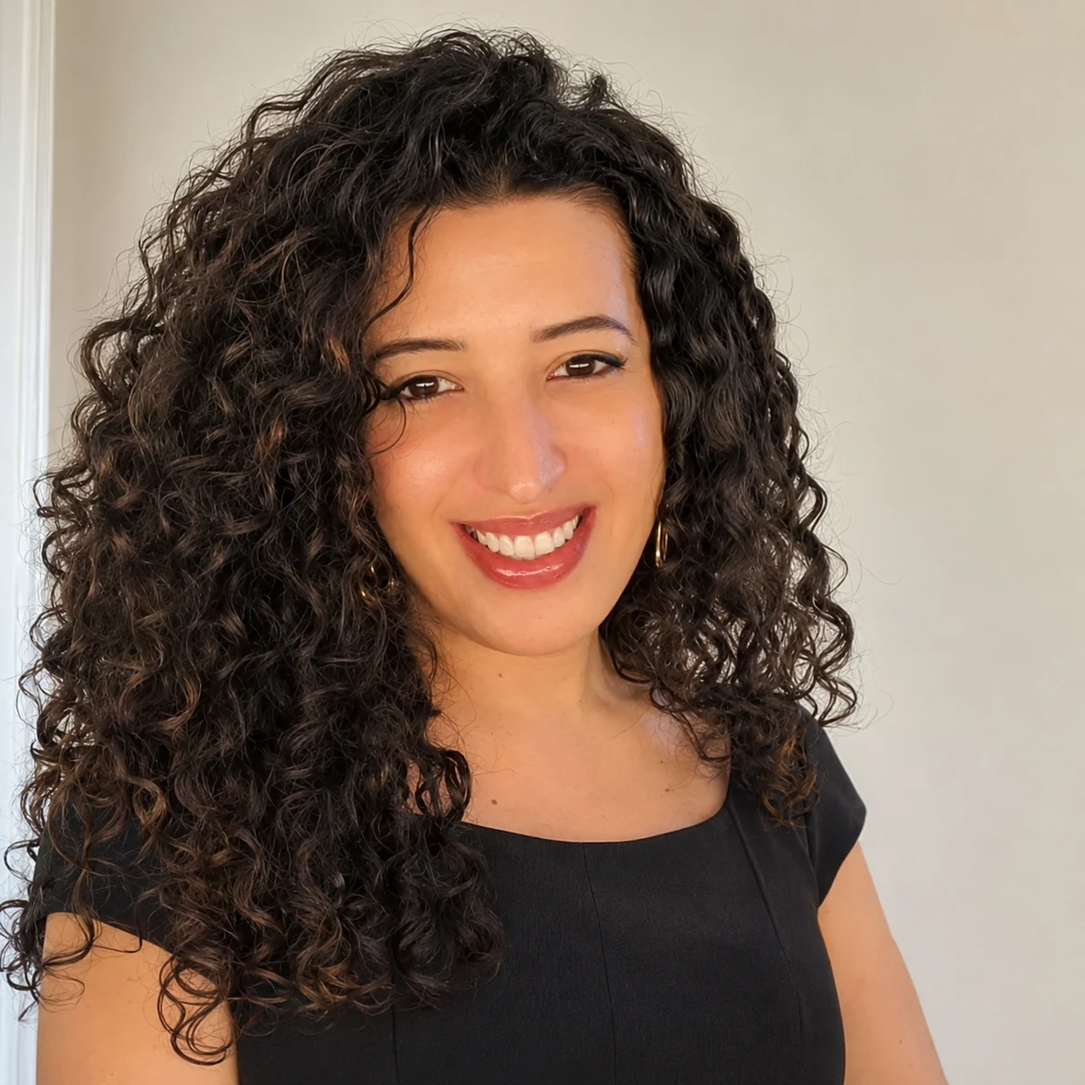
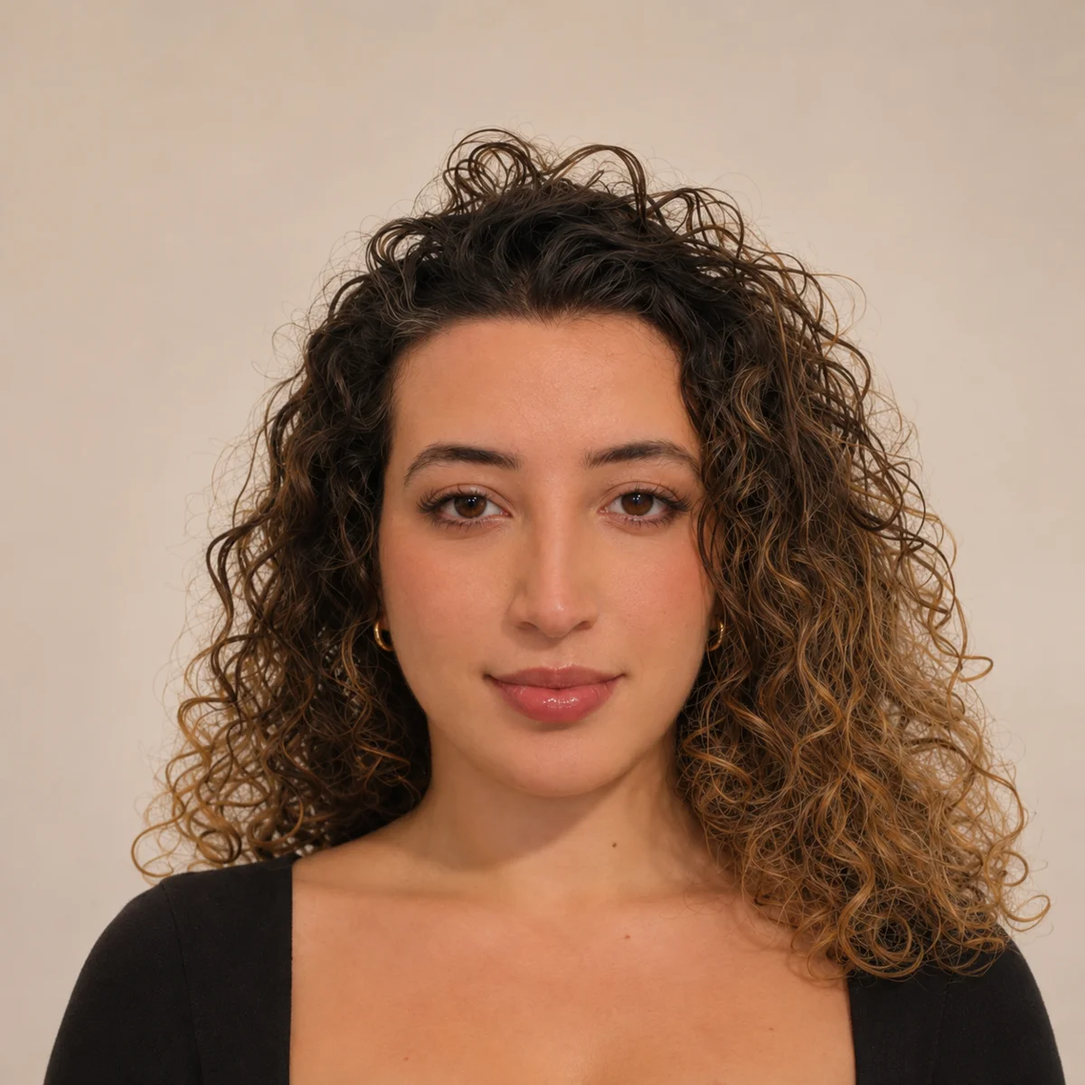
Put the free guide forward on the home page with an email opt-in
New portrait, Abidjan section removed, menu labels clarified, and a
/guide-offert page that opens after signup with explicit consent.

Claude-Session: https://claude.ai/code/session_011Z5ogAhdb68B5BdiCrjQuG

diff --git a/previews/melnourdi-v1/guide.html b/previews/melnourdi-v1/guide.html
@@ -1,0 +1,152 @@
+<!doctype html>
+<html lang="fr">
+<head>
+  <meta charset="utf-8">
+  <meta name="viewport" content="width=device-width, initial-scale=1">
+  <meta name="theme-color" content="#F9F7F2">
+  <meta name="description" content="Le guide offert de Mel Nourdi : 7 choses à savoir avant de vendre ton offre sur les réseaux.">
+  <title>7 choses à savoir avant de vendre ton offre sur les réseaux — melnourdi.</title>
+  <link rel="stylesheet" href="styles.css">
+  <link rel="stylesheet" href="lead.css">
+  <script src="lead.js" defer></script>
+</head>
+<body>
+  <svg class="icon-library" xmlns="http://www.w3.org/2000/svg" aria-hidden="true">
+    <symbol id="arrow" viewBox="0 0 24 24"><path d="M5 12h14m-6-6 6 6-6 6"/></symbol>
+    <symbol id="mail" viewBox="0 0 24 24"><rect x="3" y="5" width="18" height="14" rx="2"/><path d="m3 7 9 6 9-6"/></symbol>
+  </svg>
+  <a class="skip-link" href="#contenu">Aller au contenu</a>
+  <header class="site-header wrap">
+    <a class="wordmark" href="/" aria-label="Melnourdi, accueil">melnourdi<span>.</span></a>
+    <nav aria-label="Navigation principale">
+      <a href="/#formations">Formations</a><a href="/logiciel-reservation">Logiciel de réservation</a><a href="/#gratuit">Guide offert</a>
+    </nav>
+  </header>
+
+  <main id="contenu" class="wrap">
+    <section class="guide-gate" data-guide-gate>
+      <div class="free-section lead-section">
+        <span class="text-tag">Le guide offert</span>
+        <h1>7 choses à savoir avant de vendre ton offre sur les réseaux</h1>
+        <p>Laisse ton email et le guide s’ouvre tout de suite. Tu recevras aussi ma newsletter, une fois par semaine.</p>
+        <form class="lead-form" data-lead-form novalidate>
+          <label class="lead-label" for="gate-email">Ton adresse email</label>
+          <div class="lead-row"><input id="gate-email" name="email" type="email" autocomplete="email" placeholder="ton@email.fr" required maxlength="254"><button class="button button-dark" type="submit">Recevoir le guide<svg class="end-icon"><use href="#arrow"/></svg></button></div>
+          <label class="lead-consent"><input type="checkbox" name="consentement" required><span>J’accepte de recevoir le guide et la newsletter de Mel par email. Désinscription en un clic à tout moment. <a href="/confidentialite">Confidentialité</a></span></label>
+          <p class="lead-feedback" role="status" aria-live="polite" hidden></p>
+        </form>
+      </div>
+    </section>
+
+    <article class="guide-page" data-guide hidden>
+      <span class="tag"><span class="tag-dot"></span>Le guide offert de Mel</span>
+      <h1>7 choses à savoir avant de vendre ton offre sur les réseaux</h1>
+      <p class="guide-lead">Tu as une offre, un savoir-faire ou un service, et tu veux que les réseaux t’amènent des clients, pas seulement des vues. Ce guide est pour toi, que tu sois déjà à ton compte ou en train de te lancer.</p>
+      <p>Tu y trouveras 7 choses à savoir avant de publier ta prochaine vidéo. Chaque point se termine par <strong>une action à faire aujourd’hui</strong>. Aucun point ne demande de budget publicitaire.</p>
+
+      <h2><span>1</span>Ton offre doit tenir en une phrase</h2>
+      <p>Si tu ne peux pas dire en une phrase ce que tu vends, personne ne pourra le répéter, ni l’algorithme, ni tes clients. Sur les réseaux, on te découvre en quelques secondes, souvent sans connaître ton profil.</p>
+      <p>Une phrase claire répond à trois questions :</p>
+      <ul>
+        <li><strong>Pour qui ?</strong> Un métier ou une situation précise, pas « tout le monde ».</li>
+        <li><strong>Quel résultat ?</strong> Ce que la personne obtient concrètement.</li>
+        <li><strong>Malgré quel obstacle ?</strong> Ce qui l’empêche d’y arriver seule aujourd’hui.</li>
+      </ul>
+      <p>Exemple : « J’aide les coiffeuses indépendantes à remplir leur agenda, même sans budget publicitaire. »</p>
+      <p>Cette phrase devient ta bio, l’accroche de tes vidéos et le titre de ta page de vente. Si elle change d’une vidéo à l’autre, ton audience ne sait plus pourquoi te suivre.</p>
+      <p class="guide-action"><strong>À faire aujourd’hui :</strong> écris ta phrase, puis lis-la à une personne de ta cible. Si elle ne peut pas la répéter avec ses mots, simplifie.</p>
+
+      <h2><span>2</span>Le début de ta vidéo décide de tout le reste</h2>
+      <p>Le temps de visionnage fait partie des trois signaux qui comptent le plus sur Instagram, avec les likes et les partages, selon son patron, Adam Mosseri (<a href="https://www.socialmediatoday.com/news/instagram-shares-algorithm-2025/738034/" rel="noopener">Social Media Today, janvier 2025</a>). Si on décroche au début, la suite n’a aucune chance d’être vue.</p>
+      <p>Une bonne ouverture fait une seule chose : montrer tout de suite à la bonne personne que la vidéo parle d’elle.</p>
+      <ul>
+        <li><strong>Nomme le problème</strong> : « Tu passes tes soirées à répondre aux messages de réservation ? »</li>
+        <li><strong>Montre le résultat d’abord</strong> : l’outil terminé, puis comment tu l’as fait.</li>
+        <li><strong>Contredis une idée reçue</strong> de ton métier, à condition de pouvoir l’expliquer ensuite.</li>
+      </ul>
+      <p>À éviter : les longues introductions (« Salut tout le monde, aujourd’hui… ») et les promesses que la vidéo ne tient pas. Une accroche trompeuse fait partir les gens avant la fin, ce qui fait baisser ce temps de visionnage.</p>
+      <p class="guide-action"><strong>À faire aujourd’hui :</strong> écris trois ouvertures différentes pour ta prochaine vidéo, une par type ci-dessus. Garde celle que tu dirais à une amie.</p>
+
+      <h2><span>3</span>Les réseaux sont devenus des moteurs de recherche</h2>
+      <p>Tes futurs clients ne t’attendent pas dans leur fil : ils tapent leur problème dans la barre de recherche de TikTok ou d’Instagram. Les plateformes l’ont compris et donnent de plus en plus d’outils aux créateurs pour être trouvés.</p>
+      <ul>
+        <li><strong>Sur TikTok</strong>, l’outil Creator Search Insights, accessible depuis la barre de recherche, montre les sujets que les gens cherchent. Depuis avril 2026, un réglage « gestion des mots-clés » permet aussi de choisir les recherches pour lesquelles ta vidéo doit sortir, et d’en retirer d’autres (<a href="https://uppbeat.io/blog/creator-news/tiktok-now-lets-you-control-the-search-keywords-on-your-videos" rel="noopener">Uppbeat, avril 2026</a>).</li>
+        <li><strong>Sur Instagram</strong>, depuis fin avril 2026, un compte qui publie surtout le contenu des autres n’est plus recommandé aux non-abonnés, que ce soit en Reels, en photos ou en carrousels (<a href="https://petapixel.com/2026/04/30/new-instagram-policies-target-reposted-content/" rel="noopener">PetaPixel, avril 2026</a>). Le contenu original est donc indispensable pour être découverte.</li>
+      </ul>
+      <p>Concrètement : dis à voix haute les mots que ta cible cherche, écris-les dans le texte à l’écran et dans la légende. « Logiciel de réservation coiffure » sera trouvé, « Ma nouvelle aventure » ne le sera pas.</p>
+      <p class="guide-action"><strong>À faire aujourd’hui :</strong> tape le problème principal de ta cible dans la recherche TikTok. Note les suggestions qui s’affichent : ce sont tes cinq prochains sujets de vidéo.</p>
+
+      <h2><span>4</span>Chaque contenu a un rôle : attirer, rassurer ou vendre</h2>
+      <p>Une vidéo ne peut pas tout faire à la fois. Celle qui attire des inconnus n’est pas celle qui décide quelqu’un à payer. Avant de publier, choisis le rôle de la vidéo :</p>
+      <div class="guide-table-wrap"><table class="guide-table">
+        <thead><tr><th>Rôle</th><th>Pour qui</th><th>Exemples</th><th>Ce que tu demandes à la fin</th></tr></thead>
+        <tbody>
+          <tr><td><strong>Attirer</strong></td><td>Des gens qui ne te connaissent pas</td><td>Une erreur fréquente du métier, une astuce rapide, une idée reçue démontée</td><td>Envoyer la vidéo à quelqu’un, s’abonner</td></tr>
+          <tr><td><strong>Rassurer</strong></td><td>Ceux qui te suivent déjà</td><td>Coulisses, avant/après, ton parcours, réponses aux questions</td><td>Télécharger ton cadeau, s’inscrire à ta newsletter</td></tr>
+          <tr><td><strong>Vendre</strong></td><td>Ceux qui ont déjà le problème et te font confiance</td><td>Présentation de l’offre, démo, réponses aux objections</td><td>Un seul lien, une seule action</td></tr>
+        </tbody>
+      </table></div>
+      <p>Une vidéo de vente envoyée à des inconnus fait fuir. Une vidéo qui attire sans jamais proposer la suite ne rapporte rien. Il faut les trois, à un rythme que tu peux tenir.</p>
+      <p class="guide-action"><strong>À faire aujourd’hui :</strong> reprends tes 9 dernières publications et note pour chacune son rôle. S’il en manque un, c’est ta prochaine vidéo.</p>
+
+      <h2><span>5</span>Un partage en message privé vaut plus qu’un like</h2>
+      <p>Pour toucher des gens qui ne te suivent pas encore, Instagram regarde surtout combien de personnes envoient ta publication à quelqu’un en message privé. Les likes comptent un peu plus auprès de tes abonnés, les envois un peu plus auprès des inconnus. C’est ce qu’explique Adam Mosseri, qui conseille de suivre les envois rapportés à la portée (<a href="https://www.socialmediatoday.com/news/instagram-shares-algorithm-2025/738034/" rel="noopener">Social Media Today, janvier 2025</a>).</p>
+      <p>On envoie une vidéo quand elle fait penser à quelqu’un : « c’est exactement toi », « ça va t’aider ». Quelques formats qui s’y prêtent :</p>
+      <ul>
+        <li>une checklist à garder ou à transmettre ;</li>
+        <li>une situation du métier que tout le monde reconnaît ;</li>
+        <li>une réponse claire à une question que ta cible se pose souvent.</li>
+      </ul>
+      <p>Tu peux aussi le demander simplement : « Envoie-la à une amie qui vient de se lancer. »</p>
+      <p class="guide-action"><strong>À faire aujourd’hui :</strong> dans tes statistiques Instagram, repère la publication la plus partagée. Refais le même sujet sous un autre angle cette semaine.</p>
+
+      <h2><span>6</span>Raccourcis le chemin entre ta vidéo et ton offre</h2>
+      <p>Chaque étape en plus entre ta vidéo et ton offre fait perdre des gens. « Va sur mon profil, clique sur le lien, puis sur l’onglet, puis cherche la bonne page » : la plupart abandonnent en route.</p>
+      <ul>
+        <li><strong>Une seule action par vidéo.</strong> Toujours la même formulation, pour que ton audience la reconnaisse.</li>
+        <li><strong>Le mot-clé en commentaire.</strong> « Commente GUIDE et je t’envoie le lien en privé. » Sur Instagram, un compte professionnel peut envoyer automatiquement un message privé à la personne qui commente. Cela passe par un outil connecté à l’interface officielle de Meta : un seul message par commentaire, envoyé dans les 7 jours, et la suite seulement si la personne répond (<a href="https://developers.facebook.com/docs/instagram-platform/private-replies/" rel="noopener">documentation Meta</a>). Tu ouvres ainsi une vraie conversation, et c’est souvent là que la vente se fait.</li>
+        <li><strong>Un lien qui tient la promesse de la vidéo.</strong> Si ta vidéo parle de réservations, le lien mène à la page de ton offre de réservation, pas à ta page d’accueil.</li>
+      </ul>
+      <p class="guide-action"><strong>À faire aujourd’hui :</strong> depuis le téléphone d’une amie, pars de ta dernière vidéo et essaie d’acheter ou de réserver. Compte les clics, puis supprime au moins une étape.</p>
+
+      <h2><span>7</span>Ton audience ne t’appartient pas, ta liste email si</h2>
+      <p>Tes abonnés sont chez TikTok, Instagram ou YouTube, pas chez toi. Une seule décision de la plateforme peut changer ta portée du jour au lendemain. En avril 2026, Instagram a ainsi cessé de recommander aux non-abonnés les comptes qui republient surtout le contenu des autres (<a href="https://petapixel.com/2026/04/30/new-instagram-policies-target-reposted-content/" rel="noopener">PetaPixel</a>).</p>
+      <p>Une adresse email, elle, reste à toi. Quand tu lances une offre, tu écris directement à des personnes qui ont choisi de te lire, sans dépendre d’un algorithme.</p>
+      <p>Pour faire grandir ta liste :</p>
+      <ul>
+        <li>propose quelque chose d’utile en échange de l’email seulement, sans demander de prénom ni de téléphone ;</li>
+        <li>mets le lien dans ta bio et parles-en régulièrement dans tes vidéos « Rassurer » ;</li>
+        <li>écris à ta liste chaque semaine, le même jour, pour qu’on prenne l’habitude de te lire.</li>
+      </ul>
+      <p>Côté règles, en France, il faut le consentement préalable des particuliers avant de leur envoyer de la prospection par email. La CNIL recommande une case à cocher dédiée, jamais pré-cochée. Chaque email doit indiquer qui l’envoie et permettre de se désinscrire simplement (<a href="https://www.cnil.fr/fr/la-prospection-commerciale-par-courrier-electronique-sms-mms-et-automate-dappel" rel="noopener">CNIL, juin 2026</a>).</p>
+      <p class="guide-action"><strong>À faire aujourd’hui :</strong> choisis l’outil d’emailing que tu vas utiliser et le jour d’envoi de ta newsletter.</p>
+
+      <h2>Ton plan pour cette semaine</h2>
+      <ol>
+        <li>Écrire ta phrase d’offre et la mettre dans ta bio.</li>
+        <li>Trouver cinq sujets dans la recherche TikTok.</li>
+        <li>Préparer une vidéo pour attirer, une pour rassurer et une pour vendre.</li>
+        <li>Écrire trois ouvertures pour chacune.</li>
+        <li>Tester le chemin de ta dernière vidéo jusqu’à ton offre.</li>
+        <li>Mettre le lien de ta newsletter dans ta bio.</li>
+      </ol>
+      <p>Chaque semaine, je partage dans ma newsletter ce que je teste pour vendre avec les réseaux et l’IA. Réponds à l’un de mes emails pour me dire quel point tu appliques en premier.</p>
+      <p><strong>Mel.</strong></p>
+      <p><a class="button button-lime" href="/logiciel-reservation">Découvrir mon logiciel de réservation<svg class="end-icon"><use href="#arrow"/></svg></a></p>
+
+      <h2>Sources</h2>
+      <p>Vérifiées le 20 novembre 2026.</p>
+      <ul class="guide-sources">
+        <li><a href="https://www.cnil.fr/fr/la-prospection-commerciale-par-courrier-electronique-sms-mms-et-automate-dappel" rel="noopener">La prospection commerciale par courrier électronique</a>, CNIL, 10 juin 2026</li>
+        <li><a href="https://developers.facebook.com/docs/instagram-platform/private-replies/" rel="noopener">Private Replies</a>, documentation Meta pour les développeurs</li>
+        <li><a href="https://www.socialmediatoday.com/news/instagram-shares-algorithm-2025/738034/" rel="noopener">Instagram shares algorithm insights</a>, Social Media Today, 22 janvier 2025</li>
+        <li><a href="https://petapixel.com/2026/04/30/new-instagram-policies-target-reposted-content/" rel="noopener">New Instagram policies target reposted content</a>, PetaPixel, 30 avril 2026</li>
+        <li><a href="https://uppbeat.io/blog/creator-news/tiktok-now-lets-you-control-the-search-keywords-on-your-videos" rel="noopener">TikTok now lets you control the search keywords on your videos</a>, Uppbeat, 29 avril 2026</li>
+      </ul>
+    </article>
+    <noscript><p class="noscript-note">Active JavaScript pour recevoir le guide, ou écris à <a href="mailto:contact@melnourdi.fr">contact@melnourdi.fr</a>.</p></noscript>
+  </main>
+
+  <footer class="site-footer"><div class="wrap footer-bottom"><span>© 2026 Mel Nourdi</span><div><a href="/mentions-legales">Mentions légales</a><a href="/confidentialite">Confidentialité</a></div></div></footer>
+</body>
+</html>

diff --git a/previews/melnourdi-v1/index.html b/previews/melnourdi-v1/index.html
@@ -8,6 +8,8 @@
   <meta name="description" content="Aperçu de Melnourdi : formations pratiques, outils sur mesure et journal de bord d’entrepreneuse.">
   <title>melnourdi. — Apprendre à créer, ou me confier ton projet</title>
   <link rel="stylesheet" href="styles.css">
+  <link rel="stylesheet" href="lead.css">
+  <script src="lead.js" defer></script>
   <script src="app.js" defer></script>
 </head>
 <body>
@@ -29,7 +31,7 @@
   <header class="site-header wrap">
     <a class="wordmark" href="#" aria-label="Melnourdi, accueil">melnourdi<span>.</span></a>
     <nav aria-label="Navigation principale">
-      <a href="#formations">Formations</a><a href="/logiciel-reservation">Réservation beauté</a><a href="#sur-mesure">Sur mesure</a><a href="#gratuit">Gratuit</a>
+      <a href="#formations">Formations</a><a href="/logiciel-reservation">Logiciel de réservation</a><a href="#sur-mesure">Sur mesure</a><a href="#gratuit">Guide offert</a>
     </nav>
     <button class="account-button" data-dialog="account"><svg><use href="#user"/></svg><span>Mon espace</span></button>
   </header>
@@ -45,6 +47,7 @@
           <a class="button button-lime" href="#formations"><svg><use href="#laptop"/></svg>Je veux apprendre<svg class="end-icon"><use href="#arrow"/></svg></a>
           <a class="button button-outline" href="#sur-mesure"><svg><use href="#tool"/></svg>Je préfère déléguer<svg class="end-icon"><use href="#arrow"/></svg></a>
         </div>
+        <a class="hero-guide" href="#gratuit"><span class="hero-guide-badge">Guide offert</span><span>7 choses à savoir avant de vendre ton offre sur les réseaux</span><svg><use href="#arrow"/></svg></a>
       </div>
       <div class="portrait-space portrait-with-photo">
         <img class="hero-photo" src="assets/mel-nourdi-business.webp" alt="Portrait de Mel Nourdi" width="1200" height="1200" fetchpriority="high">
@@ -52,10 +55,15 @@
       </div>
     </section>
 
-    <section class="free-section wrap" id="gratuit" aria-labelledby="free-title">
+    <section class="free-section lead-section wrap" id="gratuit" aria-labelledby="free-title">
       <div class="free-icon" aria-hidden="true"><svg><use href="#mail"/></svg></div>
-      <div class="free-copy"><span class="text-tag">Les ressources gratuites</span><h2 id="free-title">7 choses à faire pour vendre ton offre</h2><p>En attendant, suis la préparation de ma première formation et reçois les nouvelles de son lancement.</p></div>
-      <a class="text-link" href="#liste-attente">Être au courant<svg><use href="#arrow"/></svg></a>
+      <div class="free-copy"><span class="text-tag">Le guide offert</span><h2 id="free-title">7 choses à savoir avant de vendre ton offre sur les réseaux</h2><p>L’accroche, la recherche, les partages, le message privé, ta liste email : les 7 points à régler avant ta prochaine vidéo, avec une action concrète pour chacun. Laisse ton email et le guide s’ouvre tout de suite.</p></div>
+      <form class="lead-form" data-lead-form novalidate>
+        <label class="lead-label" for="lead-email">Ton adresse email</label>
+        <div class="lead-row"><input id="lead-email" name="email" type="email" autocomplete="email" placeholder="ton@email.fr" required maxlength="254"><button class="button button-dark" type="submit">Recevoir le guide<svg class="end-icon"><use href="#arrow"/></svg></button></div>
+        <label class="lead-consent"><input type="checkbox" name="consentement" required><span>J’accepte de recevoir le guide et la newsletter de Mel par email. Désinscription en un clic à tout moment. <a href="/confidentialite">Confidentialité</a></span></label>
+        <p class="lead-feedback" role="status" aria-live="polite" hidden></p>
+      </form>
     </section>
 
     <section class="courses-section wrap section-space" id="formations" aria-labelledby="courses-title">
@@ -98,11 +106,6 @@
         <li><span class="step-number">02</span><div><h3>On définit le projet.</h3><p>Un échange, puis une proposition avec le périmètre, le budget et les délais.</p></div></li>
         <li><span class="step-number">03</span><div><h3>Je passe à la réalisation.</h3><p>Après validation, on avance vers un outil que tu pourras prendre en main.</p></div></li>
       </ol>
-    </section>
-
-    <section class="about-section wrap" id="a-propos" aria-labelledby="about-title">
-      <figure><img src="assets/mel-atelier.webp" alt="Mel participant à un atelier de pagne à Abidjan" loading="lazy" width="632" height="950"><figcaption>À l’atelier de pagne, Abidjan.</figcaption></figure>
-      <div class="about-copy"><span class="text-tag">Derrière melnourdi.</span><h2 id="about-title">Des projets, des essais.<br>Et ce que j’en retiens.</h2><p>J’entreprends depuis 2021. J’ai créé mon site, une automatisation et mon propre outil de gestion pour mon activité.</p><p>Ici, je partage ce que j’apprends en chemin. Les outils que je construis, les choix que je fais, et aussi les découvertes qui font partie de ma vie.</p><p class="about-signature">On en parle au fil des projets.<span>Mel.</span></p></div>
     </section>
 
     <section class="faq-section wrap section-space" aria-labelledby="faq-title">

diff --git a/previews/melnourdi-v1/lead.css b/previews/melnourdi-v1/lead.css
@@ -1,0 +1,40 @@
+/* Guide offert : mise en avant sur l'accueil et page du guide. */
+.hero-guide{display:inline-flex;align-items:center;gap:12px;margin-top:22px;padding:8px 14px 8px 8px;border:1px solid var(--line);border-radius:40px;background:var(--white);font-size:12px;font-weight:700;line-height:1.4;transition:border-color .18s}
+.hero-guide:hover{border-color:var(--ink)}
+.hero-guide-badge{background:var(--lime);border-radius:30px;padding:4px 10px;font-size:10px;white-space:nowrap}
+.hero-guide svg{width:16px;height:16px}
+.lead-section{flex-wrap:wrap;padding:32px}
+.lead-section .free-copy{flex:1 1 380px}
+.lead-section .free-copy h2{font-size:26px}
+.lead-form{flex:1 1 360px;display:flex;flex-direction:column;gap:10px}
+.lead-label{font-size:12px;font-weight:700}
+.lead-row{display:flex;gap:8px}
+.lead-row input{flex:1;border-color:var(--ink)}
+.lead-row .button{white-space:nowrap}
+.lead-consent{display:flex;gap:10px;align-items:flex-start;font-size:11px;line-height:1.6;cursor:pointer}
+.lead-consent input{width:18px;height:18px;min-height:0;padding:0;margin-top:2px;flex-shrink:0;accent-color:var(--ink)}
+.lead-consent a{text-decoration:underline;text-underline-offset:3px}
+.lead-feedback{font-size:13px;font-weight:650;padding:10px 12px;border:1px solid var(--ink);border-radius:6px;background:var(--white)}
+.lead-form button:disabled{opacity:.6;cursor:wait}
+@media(max-width:767px){.hero-guide{margin-top:16px;font-size:11px;align-items:flex-start}.lead-section{padding:22px 20px}.lead-section .free-copy h2{font-size:20px}.lead-form{flex-basis:100%}.lead-row{flex-direction:column}.lead-row .button{justify-content:space-between}}
+/* Page du guide */
+.guide-page{max-width:760px;margin-inline:auto;padding-block:40px 80px}
+.guide-page h1{font-size:clamp(32px,4.5vw,50px);margin-top:18px}
+.guide-lead{font-size:16px;line-height:1.85;color:var(--muted);margin-top:20px}
+.guide-page h2{font-size:clamp(24px,2.6vw,32px);margin-top:56px;padding-top:28px;border-top:1px solid var(--line)}
+.guide-page h2 span{display:inline-block;background:var(--lime);border-radius:6px;padding:0 10px;margin-right:10px}
+.guide-page p,.guide-page li{font-size:15px;line-height:1.85}
+.guide-page p{margin-top:16px}
+.guide-page ul,.guide-page ol{padding-left:22px;margin:16px 0 0}
+.guide-page li{margin-bottom:8px}
+.guide-page a{text-decoration:underline;text-underline-offset:3px}
+.guide-action{margin-top:22px!important;padding:16px 18px;background:var(--lime);border-radius:8px}
+.guide-table{width:100%;border-collapse:collapse;margin-top:20px;font-size:13px;line-height:1.6}
+.guide-table th,.guide-table td{border-bottom:1px solid var(--line);padding:10px 8px;text-align:left;vertical-align:top}
+.guide-table th{font-weight:750}
+.guide-table-wrap{overflow-x:auto}
+.guide-sources li{font-size:12px}
+.guide-gate{max-width:640px;margin:40px auto 80px}
+.guide-gate .lead-section{display:block}
+.guide-gate h1{font-size:clamp(30px,4vw,44px);margin-block:14px 16px}
+.guide-gate p{color:var(--muted);line-height:1.8;margin-bottom:22px}

diff --git a/previews/melnourdi-v1/lead.js b/previews/melnourdi-v1/lead.js
@@ -1,0 +1,42 @@
+// Guide offert : inscription par email (consentement obligatoire), puis accès au guide.
+(() => {
+  const GUIDE = '/guide-offert';
+  const KEY = 'melnourdi-guide';
+  const remember = () => { try { localStorage.setItem(KEY, '1'); } catch (e) {} };
+  document.addEventListener('submit', async (event) => {
+    const form = event.target.closest('[data-lead-form]');
+    if (!form) return;
+    event.preventDefault();
+    const feedback = form.querySelector('.lead-feedback');
+    const say = (text) => { feedback.textContent = text; feedback.hidden = false; };
+    const email = form.elements.email.value.trim();
+    if (!/^[^\s@]+@[^\s@]+\.[^\s@]{2,}$/.test(email)) { say('Vérifie ton adresse email.'); form.elements.email.focus(); return; }
+    if (!form.elements.consentement.checked) { say('Coche la case pour recevoir le guide.'); form.elements.consentement.focus(); return; }
+    const button = form.querySelector('button[type="submit"]');
+    button.disabled = true;
+    say('Un instant…');
+    try {
+      const response = await fetch('/api/inscription', {
+        method: 'POST',
+        headers: { 'content-type': 'application/json' },
+        body: JSON.stringify({ email, consentement: true, source: 'guide-7-choses-reseaux' }),
+      });
+      const data = await response.json().catch(() => ({}));
+      if (!response.ok || !data.ok) throw new Error(data.message || '');
+      remember();
+      say('C’est fait ! Ton guide s’ouvre…');
+      window.location.href = GUIDE;
+    } catch (error) {
+      say((error && error.message) || 'L’inscription n’a pas pu aboutir. Réessaie dans un instant.');
+      button.disabled = false;
+    }
+  });
+  const gate = document.querySelector('[data-guide-gate]');
+  const guide = document.querySelector('[data-guide]');
+  if (gate && guide) {
+    let open = false;
+    try { open = localStorage.getItem(KEY) === '1'; } catch (e) {}
+    gate.hidden = open;
+    guide.hidden = !open;
+  }
+})();

diff --git a/app/confidentialite/page.tsx b/app/confidentialite/page.tsx
@@ -53,7 +53,7 @@ export default function ConfidentialitePage() {
         <div>
           <h2 className="h3">Ce que je collecte</h2>
           <p className="mt-2 text-[15px] leading-relaxed text-texte">
-            Quand tu t&apos;inscris à la lettre : ton prénom et ton email. Rien d&apos;autre.
+            Quand tu t&apos;inscris à ma newsletter ou demandes le guide offert : ton email, et ton prénom si tu le donnes. Rien d&apos;autre.
           </p>
           <p className="mt-2 text-[15px] leading-relaxed text-texte">
             Quand un professionnel écrit depuis la page Collaborations : son nom, son
@@ -65,8 +65,7 @@ export default function ConfidentialitePage() {
         <div>
           <h2 className="h3">Pourquoi</h2>
           <p className="mt-2 text-[15px] leading-relaxed text-texte">
-            Pour t&apos;envoyer la lettre EN OFF et mes emails, et pour t&apos;envoyer en priorité
-            ce qui correspond à ce que tu prépares. La base légale est ton consentement, donné en
+            Pour te donner accès au guide offert et t&apos;envoyer ma newsletter et mes emails. La base légale est ton consentement, donné en
             cochant la case du formulaire. Tu peux le retirer à tout moment.
           </p>
         </div>
